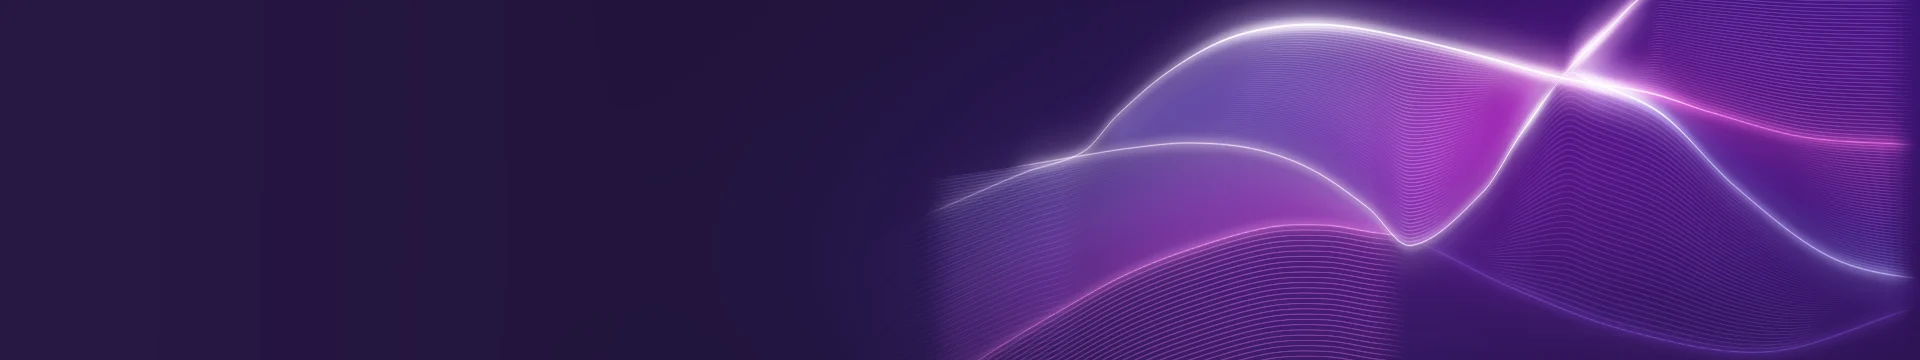
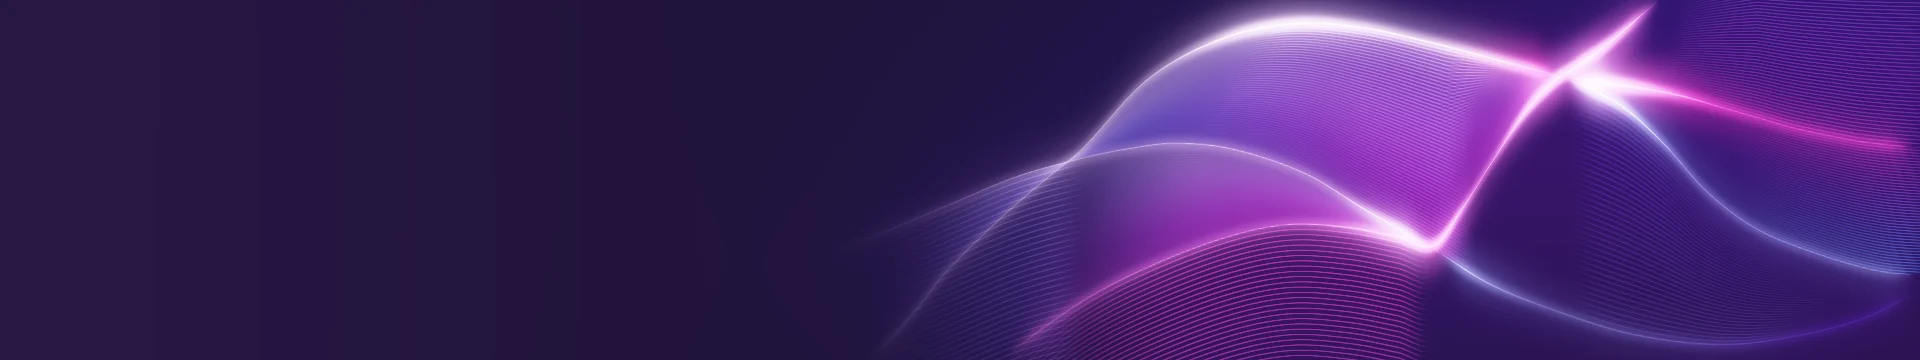
M2: course page literal to iteration3 (hero shader, pinned row, topics, resource rows, preview sheet, completion), visual diff, tests
Claude-Session: https://claude.ai/code/session_01ShtqNg8urCoKrUmvJSJVge

diff --git a/test/e2e-chromium/hero-shader.spec.ts b/test/e2e-chromium/hero-shader.spec.ts
@@ -1,0 +1,89 @@
+import { test, expect } from './fixtures';
+import { COURSE_ITI, waitForCourse } from '../harness/kex';
+
+/** M2: hero shader behaviour. Software WebGL2 so the shader runs in headless Chromium (heavy, hence its own file). */
+test.use({ launchOptions: { args: ['--use-gl=angle', '--use-angle=swiftshader', '--enable-unsafe-swiftshader', '--ignore-gpu-blocklist'] } });
+
+const COURSE = `/course/view.php?id=${COURSE_ITI}`;
+
+test.describe('hero shader', () => {
+  const live = { 'kex:settings': { enabled: true, effects: 'animated', motion: 'full', theme: 'light' } };
+
+  test.describe('animated', () => {
+    test.use({ seed: live });
+
+    test('stops offscreen and on visibilitychange, resumes after', async ({ page }) => {
+      // A short window, so the course page can scroll the hero out of view.
+      await page.setViewportSize({ width: 1585, height: 300 });
+      await page.goto(`${COURSE}#topic-6`);
+      await waitForCourse(page);
+      const canvas = page.locator('.kex-hero__canvas');
+      await expect(canvas).toHaveAttribute('data-fx', 'running');
+
+      await page.evaluate(() => window.scrollTo(0, 700));
+      await expect(canvas).toHaveAttribute('data-fx', 'paused');
+      await page.evaluate(() => window.scrollTo(0, 0));
+      await expect(canvas).toHaveAttribute('data-fx', 'running');
+
+      await page.evaluate(() => {
+        Object.defineProperty(document, 'hidden', { configurable: true, get: () => true });
+        document.dispatchEvent(new Event('visibilitychange'));
+      });
+      await expect(canvas).toHaveAttribute('data-fx', 'paused');
+      await page.evaluate(() => {
+        Object.defineProperty(document, 'hidden', { configurable: true, get: () => false });
+        document.dispatchEvent(new Event('visibilitychange'));
+      });
+      await expect(canvas).toHaveAttribute('data-fx', 'running');
+    });
+
+    test('a lost WebGL context falls back to the image without errors', async ({ page }) => {
+      const errors: string[] = [];
+      page.on('pageerror', (e) => errors.push(e.message));
+      page.on('console', (m) => m.type() === 'error' && errors.push(m.text()));
+      await page.goto(`${COURSE}#topic-6`);
+      await waitForCourse(page);
+      const canvas = page.locator('.kex-hero__canvas');
+      await expect(canvas).toHaveAttribute('data-fx', 'running');
+      await page.evaluate(() => {
+        const c = document.querySelector<HTMLCanvasElement>('.kex-hero__canvas')!;
+        c.getContext('webgl2')!.getExtension('WEBGL_lose_context')!.loseContext();
+      });
+      await expect(canvas).toHaveAttribute('data-fx', 'fallback');
+      await expect(page.locator('[data-kex-test="hero"]')).toHaveAttribute('data-mode', 'fallback');
+      await page.waitForTimeout(300);
+      expect(errors.filter((e) => !/Failed to load resource/.test(e))).toEqual([]);
+    });
+  });
+
+  test.describe('reduced motion', () => {
+    test.use({ seed: { 'kex:settings': { enabled: true, effects: 'animated', motion: 'reduced', theme: 'light' } } });
+
+    test('renders one static frame and nothing animates', async ({ page }) => {
+      await page.goto(`${COURSE}#topic-6`);
+      await waitForCourse(page);
+      await expect(page.locator('.kex-hero__canvas')).toHaveAttribute('data-fx', 'static');
+      const running = await page.evaluate(() => document.getAnimations().filter((a) => a.playState === 'running').map((a) => (a as CSSAnimation).animationName ?? a.constructor.name));
+      expect(running).toEqual([]);
+      // Slide-up pieces sit at their final place.
+      const moved = await page.evaluate(() => [...document.querySelectorAll<HTMLElement>('.kex-su-item')].filter((e) => getComputedStyle(e).transform !== 'none').length);
+      expect(moved).toBe(0);
+    });
+  });
+
+  test.describe('effects off', () => {
+    test.use({ seed: { 'kex:settings': { enabled: true, effects: 'off', motion: 'full', theme: 'light' } } });
+
+    test('shows the fallback image instead of the canvas', async ({ page }) => {
+      await page.goto(`${COURSE}#topic-6`);
+      await waitForCourse(page);
+      await expect(page.locator('.kex-hero__canvas')).toHaveAttribute('data-fx', 'fallback');
+      await expect(page.locator('[data-kex-test="hero"]')).toHaveAttribute('data-mode', 'fallback');
+      const bg = await page.evaluate(() => getComputedStyle(document.querySelector('[data-kex-test="hero"]')!).backgroundImage);
+      expect(bg).toContain('hero-fallback');
+      const hidden = await page.evaluate(() => getComputedStyle(document.querySelector('.kex-hero__canvas')!).display);
+      expect(hidden).toBe('none');
+    });
+  });
+});
+

diff --git a/test/e2e-chromium/course.spec.ts b/test/e2e-chromium/course.spec.ts
@@ -183,85 +183,6 @@ test.describe('preview and completion', () => {
   });
 });
 
-test.describe('hero shader', () => {
-  const live = { 'kex:settings': { enabled: true, effects: 'animated', motion: 'full', theme: 'light' } };
-
-  test.describe('animated', () => {
-    test.use({ seed: live });
-
-    test('stops offscreen and on visibilitychange, resumes after', async ({ page }) => {
-      await page.goto(`${COURSE}#topic-6`);
-      await waitForCourse(page);
-      const canvas = page.locator('.kex-hero__canvas');
-      await expect(canvas).toHaveAttribute('data-fx', 'running');
-
-      await page.evaluate(() => window.scrollTo(0, 700));
-      await expect(canvas).toHaveAttribute('data-fx', 'paused');
-      await page.evaluate(() => window.scrollTo(0, 0));
-      await expect(canvas).toHaveAttribute('data-fx', 'running');
-
-      await page.evaluate(() => {
-        Object.defineProperty(document, 'hidden', { configurable: true, get: () => true });
-        document.dispatchEvent(new Event('visibilitychange'));
-      });
-      await expect(canvas).toHaveAttribute('data-fx', 'paused');
-      await page.evaluate(() => {
-        Object.defineProperty(document, 'hidden', { configurable: true, get: () => false });
-        document.dispatchEvent(new Event('visibilitychange'));
-      });
-      await expect(canvas).toHaveAttribute('data-fx', 'running');
-    });
-
-    test('a lost WebGL context falls back to the image without errors', async ({ page }) => {
-      const errors: string[] = [];
-      page.on('pageerror', (e) => errors.push(e.message));
-      page.on('console', (m) => m.type() === 'error' && errors.push(m.text()));
-      await page.goto(`${COURSE}#topic-6`);
-      await waitForCourse(page);
-      const canvas = page.locator('.kex-hero__canvas');
-      await expect(canvas).toHaveAttribute('data-fx', 'running');
-      await page.evaluate(() => {
-        const c = document.querySelector<HTMLCanvasElement>('.kex-hero__canvas')!;
-        c.getContext('webgl2')!.getExtension('WEBGL_lose_context')!.loseContext();
-      });
-      await expect(canvas).toHaveAttribute('data-fx', 'fallback');
-      await expect(page.locator('[data-kex-test="hero"]')).toHaveAttribute('data-mode', 'fallback');
-      await page.waitForTimeout(300);
-      expect(errors.filter((e) => !/Failed to load resource/.test(e))).toEqual([]);
-    });
-  });
-
-  test.describe('reduced motion', () => {
-    test.use({ seed: { 'kex:settings': { enabled: true, effects: 'animated', motion: 'reduced', theme: 'light' } } });
-
-    test('renders one static frame and nothing animates', async ({ page }) => {
-      await page.goto(`${COURSE}#topic-6`);
-      await waitForCourse(page);
-      await expect(page.locator('.kex-hero__canvas')).toHaveAttribute('data-fx', 'static');
-      const running = await page.evaluate(() => document.getAnimations().filter((a) => a.playState === 'running').map((a) => (a as CSSAnimation).animationName ?? a.constructor.name));
-      expect(running).toEqual([]);
-      // Slide-up pieces sit at their final place.
-      const moved = await page.evaluate(() => [...document.querySelectorAll<HTMLElement>('.kex-su-item')].filter((e) => getComputedStyle(e).transform !== 'none').length);
-      expect(moved).toBe(0);
-    });
-  });
-
-  test.describe('effects off', () => {
-    test.use({ seed: { 'kex:settings': { enabled: true, effects: 'off', motion: 'full', theme: 'light' } } });
-
-    test('shows the fallback image instead of the canvas', async ({ page }) => {
-      await page.goto(`${COURSE}#topic-6`);
-      await waitForCourse(page);
-      await expect(page.locator('.kex-hero__canvas')).toHaveAttribute('data-fx', 'fallback');
-      await expect(page.locator('[data-kex-test="hero"]')).toHaveAttribute('data-mode', 'fallback');
-      const bg = await page.evaluate(() => getComputedStyle(document.querySelector('[data-kex-test="hero"]')!).backgroundImage);
-      expect(bg).toContain('hero-fallback');
-      const hidden = await page.evaluate(() => getComputedStyle(document.querySelector('.kex-hero__canvas')!).display);
-      expect(hidden).toBe('none');
-    });
-  });
-});
-
 test.describe('slide-up text', () => {
   test.use({ seed: iter3Seed() });
 

diff --git a/test/e2e-chromium/shell.spec.ts b/test/e2e-chromium/shell.spec.ts
@@ -44,8 +44,11 @@ test.describe('shell on lab pages', () => {
   }
 
   test('header compresses 67 -> 52 without changing scrollHeight', async ({ page }) => {
+    // The course page is shorter than a tall window; a short one leaves something to scroll.
+    await page.setViewportSize({ width: 1585, height: 500 });
     await page.goto('/course/view.php?id=2');
     await waitForShell(page);
+    await page.waitForLoadState('networkidle'); // the course page prefetches topic details
     const measure = () =>
       page.evaluate(() => ({
         h: document.querySelector('[data-kex-test=header]')!.getBoundingClientRect().height,
@@ -55,15 +58,13 @@ test.describe('shell on lab pages', () => {
     const top = await measure();
     expect(Math.abs(top.h - 67)).toBeLessThanOrEqual(1);
     await page.evaluate(() => window.scrollTo(0, 300));
-    await page.waitForTimeout(600);
+    await expect.poll(async () => Math.abs((await measure()).h - 52) <= 1, { timeout: 8000 }).toBe(true);
     const scrolled = await measure();
     expect(scrolled.y).toBeGreaterThanOrEqual(300 - 1);
-    expect(Math.abs(scrolled.h - 52)).toBeLessThanOrEqual(1);
     expect(scrolled.sh).toBe(top.sh);
     await page.evaluate(() => window.scrollTo(0, 0));
-    await page.waitForTimeout(600);
+    await expect.poll(async () => Math.abs((await measure()).h - 67) <= 1, { timeout: 8000 }).toBe(true);
     const back = await measure();
-    expect(Math.abs(back.h - 67)).toBeLessThanOrEqual(1);
     expect(back.sh).toBe(top.sh);
   });
 

diff --git a/src/ui/views/Course.tsx b/src/ui/views/Course.tsx
@@ -192,7 +192,12 @@ export function CourseView() {
   useEffect(() => {
     if (focused.current || status !== 'ready' || topicNumber.value === undefined) return;
     focused.current = true;
-    requestAnimationFrame(() => document.querySelector<HTMLElement>(`[data-kex-topic="${topicNumber.value}"]`)?.focus({ preventScroll: true }));
+    requestAnimationFrame(() => {
+      // Only when nothing else has taken focus meanwhile (the search box, the palette, a dialog).
+      const a = document.activeElement;
+      if (a && a !== document.body && a !== document.documentElement) return;
+      document.querySelector<HTMLElement>(`[data-kex-topic="${topicNumber.value}"]`)?.focus({ preventScroll: true });
+    });
   }, [status, topicNumber.value]);
 
   const loading = status === 'loading' && !st;

diff --git a/src/fx/slideup.ts b/src/fx/slideup.ts
@@ -1,4 +1,4 @@
-import { animTrack } from './anim';
+import { animSettle, animTrack } from './anim';
 
 /** Slide Up Text (architecture §15): masked pieces slide up with a stagger. Screen readers get the full text once. */
 
@@ -209,5 +209,7 @@ export function slideUp(target: HTMLElement, text: string, opts: SlideUpOptions 
   } else {
     items.forEach((i) => (i.style.transform = 'translateY(110%)'));
   }
+  // Nothing animating (reduced motion, held until in view): the page is settled for tests and screenshots.
+  animSettle();
   return { play, cancel, finished };
 }

diff --git a/src/styles/course/thumb.css b/src/styles/course/thumb.css
@@ -99,6 +99,15 @@
   :root[data-kex-theme="dark"] & .kex-thumb--code .kex-thumb__svg {
     stroke: #ff8ee6;
   }
+  :root[data-kex-theme="dark"] & .kex-thumb--code [stroke="#2d1a96"] {
+    stroke: #b9a8ff;
+  }
+  :root[data-kex-theme="dark"] & .kex-thumb--code [stroke="#5f1a98"] {
+    stroke: #d08bf5;
+  }
+  :root[data-kex-theme="dark"] & .kex-thumb--doc::before {
+    display: none;
+  }
   :root[data-kex-theme="dark"] & .kex-thumb--code .kex-thumb__code {
     fill: #ff8ee6;
   }

diff --git a/playwright.config.ts b/playwright.config.ts
@@ -15,11 +15,5 @@ export default defineConfig({
     deviceScaleFactor: 1,
     actionTimeout: 10_000,
   },
-  projects: [
-    {
-      name: 'chromium',
-      // Software WebGL2 so the hero shader runs in headless Chromium.
-      use: { browserName: 'chromium', launchOptions: { args: ['--use-gl=angle', '--use-angle=swiftshader', '--enable-unsafe-swiftshader', '--ignore-gpu-blocklist'] } },
-    },
-  ],
+  projects: [{ name: 'chromium', use: { browserName: 'chromium' } }],
 });

diff --git a/src/styles/course/course.css b/src/styles/course/course.css
@@ -103,7 +103,8 @@
     pointer-events: none;
     background: linear-gradient(118deg, transparent 56%, rgba(255, 255, 255, 0.5) 63%, rgba(255, 214, 250, 0.42) 66%, transparent 73%);
   }
-  :root[data-kex-theme="dark"] & :is(.kex-pin--hot::before, .kex-topic--active::after) {
+  :root[data-kex-theme="dark"] & .kex-pin--hot::before,
+  :root[data-kex-theme="dark"] & .kex-topic--active::after {
     display: none;
   }
   .kex-pin--hot .kex-pin__tack {

diff --git a/docs/decisions.md b/docs/decisions.md
@@ -96,3 +96,58 @@ can sit next to a release build.
 - Dark theme, skin baseline: Moodle's own loading skeletons (`.bg-pulse-grey`), the forum `.activity-details` box and the
   `.btn-submit.search-icon` button hard-code light fills and are re-coloured under `[data-kex-theme=dark]`.
 - Page `<mark>` styling from Bootstrap (padding) spread the palette's fuzzy highlights; reset to `padding: 0`.
+
+## M2: course page
+
+### Fonts and type (measured against iteration3)
+- The mock's UI text is narrower than Inter: `--kex-font-ui` is now Inter Tight Variable (sidebar and header included), and
+  `--kex-font-hero` is Inter Variable. The hero title is Inter 300 at -0.02em; the design-spec's "Inter Tight -0.035em" made
+  the title 10% narrower than the mock.
+- "Learning materials" is 510/-0.0205em and the topic title 520/-0.029em (Inter Tight). Heavier weights with tighter tracking
+  matched the width but not the ink: pixel counts were 25-35% above the mock.
+- Tabs are 16px, the active one 17px/600 (this is what puts the underline at x=1276, w=98).
+
+### Names and order
+- English short names ship as the default aliases of the six TalTech courses (ITI8801 "Cloud & DevOps", EMT0140 "IoT for
+  Industry", IAS0230 "Embedded Systems", MMO5770 "Management & Leadership", ITB8833 "Digital State ICT", IEE2630 "Smart
+  Networks") in the mock's order. A rename (F2) overrides them.
+
+### Hero ribbons shader
+- design-spec §9's starting point (layered sines) could not get near the mock. The shader is built from four traced key curves
+  (arch A, arch B with its lower sweep, pink rim C/E, pink rim P) in a 1339x253 reference frame, translucent fills between them
+  and hairline strands, plus the uniform `uWin` (the part of the frame a canvas shows; `x0 > x1` mirrors it).
+- The constants (`K_*`, `Q_*`) are fitted with `scripts/fit-ribbons.mjs` (coordinate search on a blurred L1 loss, 4 sweeps:
+  26.7 -> 22.5). Strand strength was then raised by hand because a blurred loss pushes it to zero.
+- Clock `uTime * .07`; `debug.freezeTime` = 7.3 gives the static frame used by the visual diff and the fallback image
+  (`scripts/render-fallback.mjs` -> `assets/hero-fallback.webp`).
+- Video thumbnails use the same shader on a mirrored window of the hero's right edge (flat purple before: an offscreen canvas has
+  `clientWidth` 0, so the renderer resized it to 1x1; offscreen canvases now keep their size).
+- Each canvas carries `data-fx="running|paused|static|fallback"`; the e2e tests read it (shader stops offscreen and on
+  `visibilitychange`, static under reduced motion, fallback for effects off and for a lost context).
+
+### Data
+- `core_courseformat_get_state` is the source of sections and cms; details of a cm (icon type, dates, completion toggle) come from
+  `core_course_get_module` HTML, fetched for the selected topic first, then its neighbours, then the rest when idle. The server
+  state wins over a cached completion toggle on every load.
+- Previews of `resource` modules probe the module URL with `redirect=1` (`ws.probe`) to learn the file type; pages and URLs use the
+  rendered HTML. PDFs open in an iframe, images and video natively, other files as a link card.
+- Assignment due text from Moodle's long date ("Due: Thursday, 10 September 2026, 5:38 PM") is shortened to "Due Thu 10 Sep".
+- When `get_state` fails and nothing is cached, the page switches to the skin ("Moodle layout in KEX") with a toast.
+- The weeks format shows "Week N" for default date-range titles; tiles format rows get the tile photo as the topic thumbnail
+  (unit-tested; the lab course is weeks format with real titles, so neither is exercised live).
+
+### Known deviations from the mock (kept on purpose)
+- The seeded "Kubernetes slides" pin makes row 1 say "Unpin" where the mock says "Pin" (it is pinned; the mock is not consistent).
+- Row 3 (recording) shows the Preview/Pin line, the mock omits it for recordings.
+- The mock's "&" in the hero title is a wider glyph than Inter's; line 2 is 3% narrower.
+- The mock's pinned cells have unequal widths; ours grow evenly from their content (close, not identical).
+
+### Tests
+- `test/e2e-chromium/course.spec.ts` (topic switch <= 16 ms measured from the `kex:topic-switch` mark to the DOM update, hash and
+  history, tabs, dimming via a trimmed state response, preview, `x` with reload, slide-up, axe, thumbs),
+  `hero-shader.spec.ts` (needs software WebGL, so it has its own `launchOptions`; the other specs run without a GPU),
+  `test/visual/iter3-geometry.spec.ts`, and `node scripts/visual-diff.mjs` (pixelmatch, writes `artifacts/visual/iter3/`).
+- Firefox smoke gained `m2` (course page: title read once, topic, `k`, tabs, preview, canvas); `node scripts/firefox-shot.mjs`
+  writes a real-Firefox screenshot.
+- The short-window trick (`setViewportSize` 500 high) is needed to scroll the course page in tests: it is shorter than the window.
+- The course view only focuses the active topic row on load when nothing else has focus (otherwise it stole focus from the palette).
